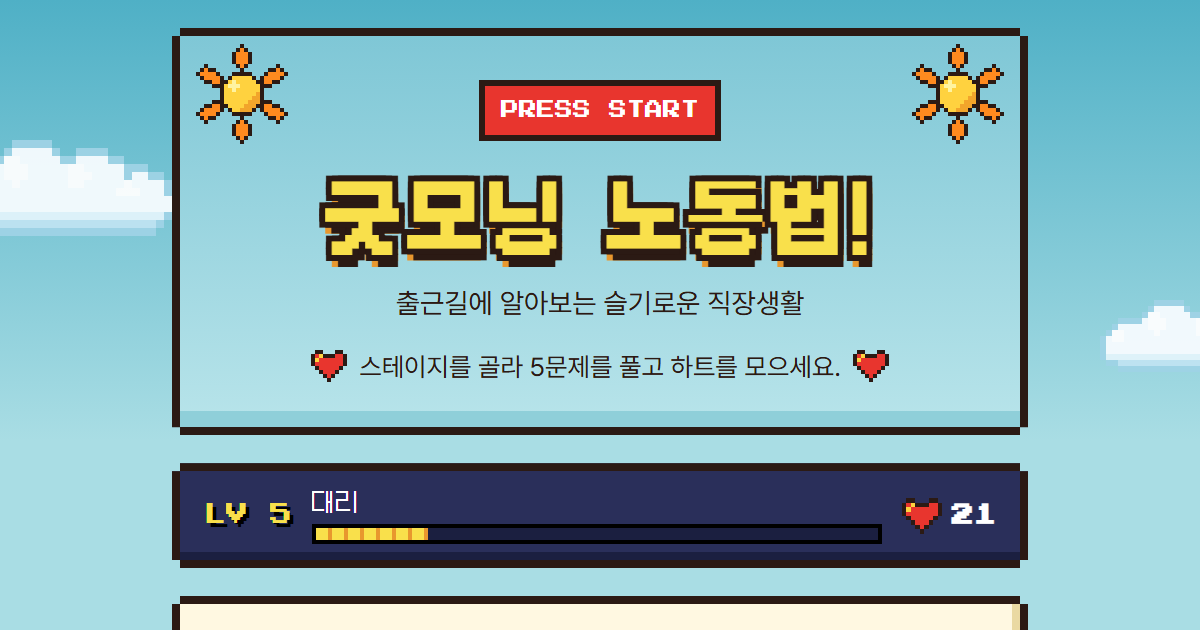
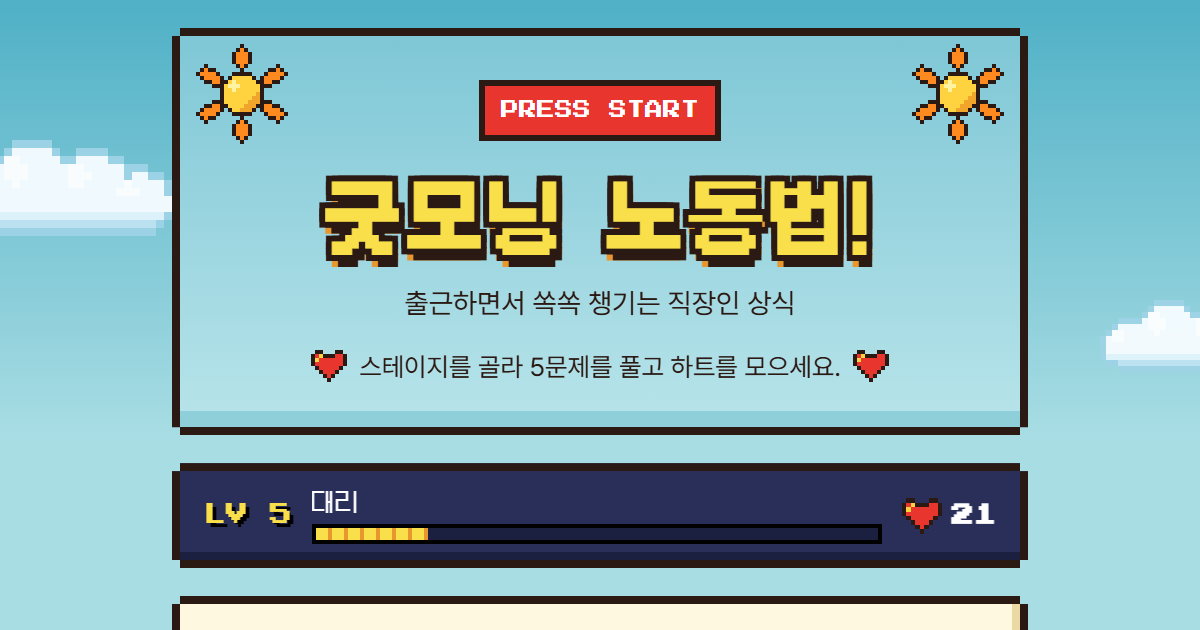
부제를 «출근하면서 쏙쏙 챙기는 직장인 상식»으로 바꿈
첫 화면 · 페이지 제목 · 공유 미리보기 문구 · README 를 함께 고치고, og.png 도 새 문장으로 다시 찍음

diff --git a/index.html b/index.html
@@ -3,12 +3,12 @@
 <head>
 <meta charset="utf-8">
 <meta name="viewport" content="width=device-width, initial-scale=1, viewport-fit=cover">
-<title>굿모닝 노동법! — 출근길에 알아보는 슬기로운 직장생활</title>
-<meta name="description" content="출근길에 알아보는 슬기로운 직장생활. 노동법 · 4대 보험 12개 주제, 주제당 5문항.">
+<title>굿모닝 노동법! — 출근하면서 쏙쏙 챙기는 직장인 상식</title>
+<meta name="description" content="출근하면서 쏙쏙 챙기는 직장인 상식. 노동법 · 4대 보험 12개 주제, 주제당 5문항.">
 <!-- 링크 공유 미리보기(카톡 · 슬랙 등) -->
 <meta property="og:type" content="website">
 <meta property="og:url" content="https://gam-test-delta.vercel.app/">
-<meta property="og:title" content="굿모닝 노동법! — 출근길에 알아보는 슬기로운 직장생활">
+<meta property="og:title" content="굿모닝 노동법! — 출근하면서 쏙쏙 챙기는 직장인 상식">
 <meta property="og:description" content="노동법 · 4대 보험 12스테이지 60문항. 문제를 맞히며 인턴에서 대표이사로, 집에서 회사로 출근해요.">
 <meta property="og:image" content="https://gam-test-delta.vercel.app/og.png">
 <meta property="og:image:width" content="1200">

diff --git a/README.md b/README.md
@@ -1,4 +1,4 @@
-# 굿모닝 노동법! — 출근길에 알아보는 슬기로운 직장생활
+# 굿모닝 노동법! — 출근하면서 쏙쏙 챙기는 직장인 상식
 
 연차 · 퇴직금 · 근로시간 · 임금 · 괴롭힘 · 출산육아 · 산재 · 계약직 · 해고 · 4대 보험까지,
 **노동법과 4대 보험을 12스테이지 60문항으로 맞혀 보는 고전 게임풍 퀴즈**입니다.
